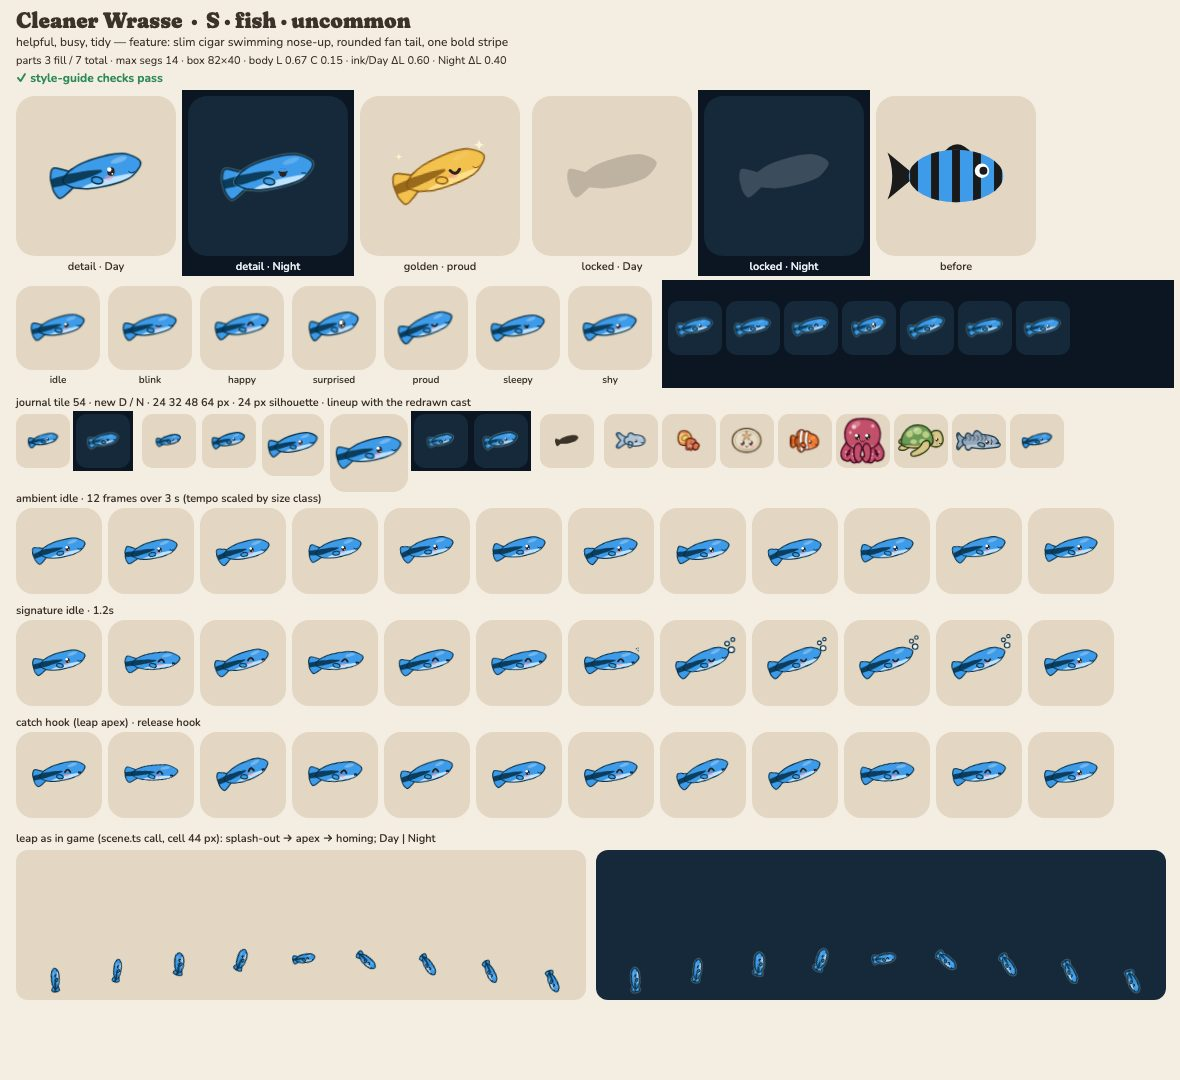
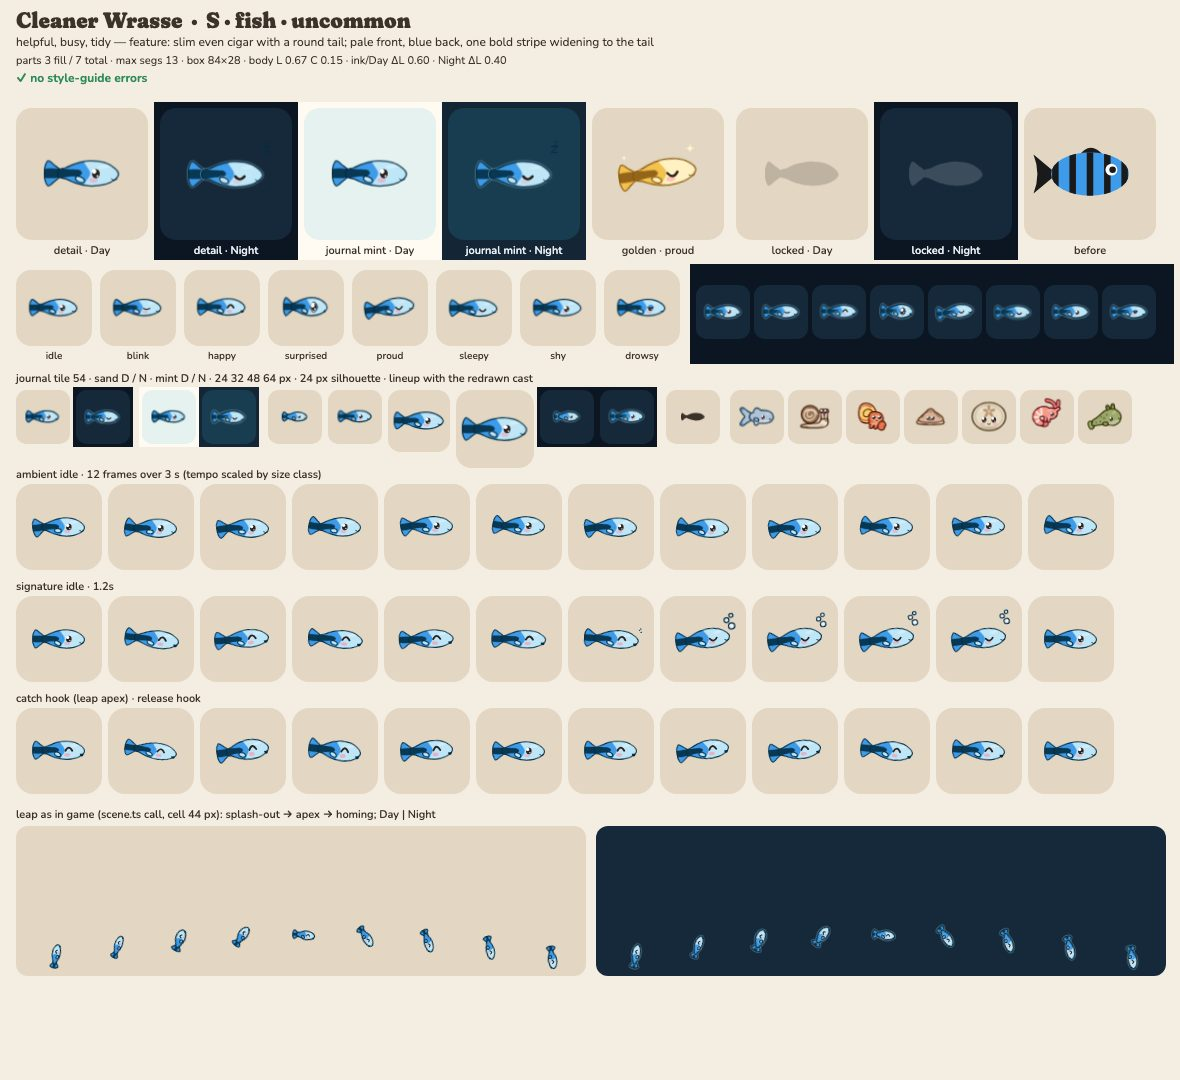
render: wrasse art redo — level spindle, bluestreak colours, stripe behind the eye (ADR 0011)
CRITIQUE-1 C: level (1 deg), slim spindle with a narrow root and a round tail; pale #BFE6F7 front half over a #3D9BE9 back, one ink stripe starting 1.5 eye-widths behind the eye (R18E) and widening 7 -> 10 u into the tail; eye 10.6 in clear body colour; happy smile. Lint clean. Closest: barracuda 0.68, flounder 0.68.

diff --git a/src/render/art/species/wrasse.ts b/src/render/art/species/wrasse.ts
@@ -1,97 +1,103 @@
 /**
- * Cleaner wrasse — the reef's tidy little spa attendant (fish class, profile view).
- * Silhouette (R10): a slim cigar with a rounded fan tail, always swimming nose-up at a jaunty tilt
- * (the level minnow and barracuda are its neighbours at 24 px). One bold ink stripe to the tail.
+ * Cleaner wrasse — the reef's tidy little spa attendant (fish class, profile view, level).
+ * Silhouette (R10): a slim, even cigar with a rounded fan tail (no fork, no tall fins): between the
+ * barracuda's needle and the minnow's forked torpedo. Bluestreak colours: a pale front half, a blue
+ * back half, and one bold ink stripe that starts behind the eye and widens into the tail.
  * Personality: helpful, busy, tidy. Signature: a little "scrub" wiggle with a bubble sparkle.
  */
-import { blob, circle, defineArt, ellipse, join, tube, xform } from '../kit.ts';
+import { blob, circle, defineArt, ellipse, join, tube } from '../kit.ts';
 
-// The whole fish swims nose-up at a jaunty TILT (busy, on its way to a client): the pose is the
-// silhouette feature that keeps the cigar apart from the level minnow and barracuda (R12).
-const TILT = -14;
-const T = (d: string) => xform(d, { rot: TILT });
-// even cigar: rounded nose at +38, tail root at −27
-const body = T(
-  tube(
-    [
-      [31, 0, 9.5],
-      [20, 0, 12.5],
-      [4, 0, 13],
-      [-12, 0, 11.5],
-      [-22, 0, 8.5],
-      [-26, 0, 6.5],
-    ],
-    1,
-  ),
+// even cigar: rounded nose at +40, tail root at −27
+const body = blob([
+  [40, 1],
+  [35, -6],
+  [24, -12],
+  [8, -14],
+  [-8, -11],
+  [-20, -6],
+  [-28, -3.5],
+  [-28, 3.5],
+  [-20, 6],
+  [-8, 11],
+  [8, 14],
+  [24, 12.5],
+  [35, 7.5],
+]);
+// rounded fan tail
+const tail = blob(
+  [
+    [-26, -3],
+    [-33, -9],
+    [-40, -14],
+    [-43.5, -7],
+    [-44, 0],
+    [-43.5, 7],
+    [-40, 14],
+    [-33, 9],
+    [-26, 3],
+  ],
+  0.95,
 );
-// rounded fan tail with a slightly convex trailing edge
-const tail = T(
-  blob(
-    [
-      [-23, -5],
-      [-32, -11],
-      [-39, -13.5],
-      [-42.5, -7],
-      [-43, 0],
-      [-42.5, 7],
-      [-39, 13.5],
-      [-32, 11],
-      [-23, 5],
-    ],
-    0.85,
-  ),
-);
-const pectoral = T(ellipse(-2, 6.5, 4.8, 2.5, 24));
-// one bold stripe: thin behind the eye, widening to the tail (R18 stripes, 1 line)
-const stripe = T(
-  tube([
-    [3, -1, 1.2],
-    [-8, -1, 3.2],
-    [-20, -1, 4],
-    [-30, -1, 4.2],
-  ]),
-);
-const tailStripe = T(
-  tube([
-    [-26, -1, 4],
-    [-46, -1, 3.6],
-  ]),
-);
-const bubbles = join(circle(43, -20, 3.6), circle(37, -29, 2.4), circle(45, -35, 1.8));
+const pectoral = ellipse(-4, 7, 5, 2.6, 26);
+// the pale front half over the blue body (pattern, follows the outline)
+const front = blob([
+  [2, -18],
+  [46, -18],
+  [46, 18],
+  [2, 18],
+  [8, 0],
+]);
+// one bold ink stripe: starts well behind the eye (R18E) and widens from 7 to 10 units into the tail
+const stripe = tube([
+  [-5, -0.5, 3.5],
+  [-14, -0.5, 4.2],
+  [-26, 0, 5],
+]);
+const tailStripe = tube([
+  [-27, 0, 5],
+  [-46, 0, 5],
+]);
+const bubbles = join(circle(45, -16, 3.6), circle(39, -25, 2.6), circle(46, -31, 2));
 
 export default defineArt({
   id: 'wrasse',
   klass: 'fish',
   size: 'S',
-  feature: 'slim cigar swimming nose-up, rounded fan tail, one bold stripe',
+  feature: 'slim even cigar with a round tail; pale front, blue back, one bold stripe widening to the tail',
   personality: ['helpful', 'busy', 'tidy'],
-  palette: { body: '#3D9BE9', belly: '#BFE3FF' },
+  palette: { body: '#3D9BE9', accent: '#BFE6F7', belly: '#BFE6F7' },
   groups: [
     {
       id: 'tail',
-      pivot: [-25, 6],
+      pivot: [-27, 0],
       parts: [
         { d: tail, role: 'body' },
-        { d: tailStripe, role: 'ink', kind: 'pattern', alpha: 0.85 },
+        { d: tailStripe, role: 'ink', kind: 'pattern', alpha: 0.9 },
       ],
     },
     {
       id: 'body',
       parts: [
         { d: body, role: 'body' },
-        { d: T(ellipse(10, 13, 32, 6)), role: 'belly', kind: 'pattern' },
-        { d: stripe, role: 'ink', kind: 'pattern', alpha: 0.85 },
+        { d: front, role: 'accent', kind: 'pattern' },
+        { d: stripe, role: 'ink', kind: 'pattern', alpha: 0.9 },
       ],
     },
-    { id: 'finA', pivot: [-1, 4.5], parts: [{ d: pectoral, role: 'body' }] },
-    { id: 'bubbles', pivot: [40, -20], prop: true, parts: [{ d: bubbles, role: 'white', alpha: 0.85 }] },
+    { id: 'finA', pivot: [-6, 5], parts: [{ d: pectoral, role: 'accent' }] },
+    {
+      id: 'bubbles',
+      pivot: [42, -20],
+      prop: true,
+      followRoot: true,
+      parts: [{ d: bubbles, role: 'white', alpha: 0.85 }],
+    },
   ],
-  shine: T(ellipse(22, -7, 8, 2.6, -6)),
+  shine: ellipse(24, -8, 8, 2.6, -10),
   face: {
-    eyes: [[12, -1.5]],
-    eye: 8,
-    zone: [2, -22, 40, 36],
-    mouth: { at: [31, -1.5], w: 5.5, shape: 'smile' },
+    eyes: [[14, 0]],
+    eye: 10.6,
+    zone: [4, -27, 38, 46],
+    mouth: { at: [35, 6], w: 6.5, shape: 'smile' },
     sweet: true,
   },
   idle: {
